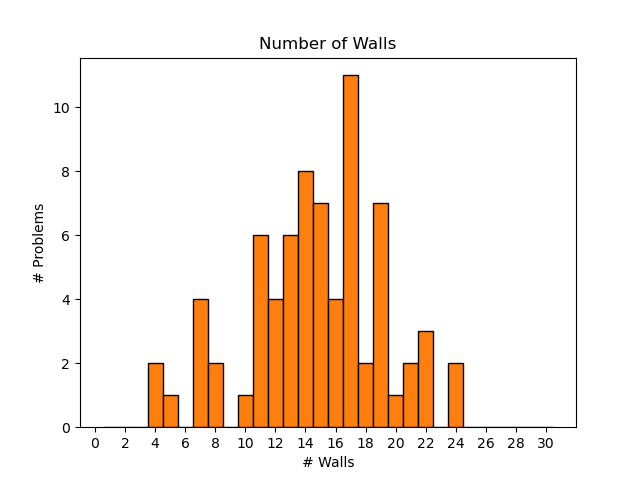
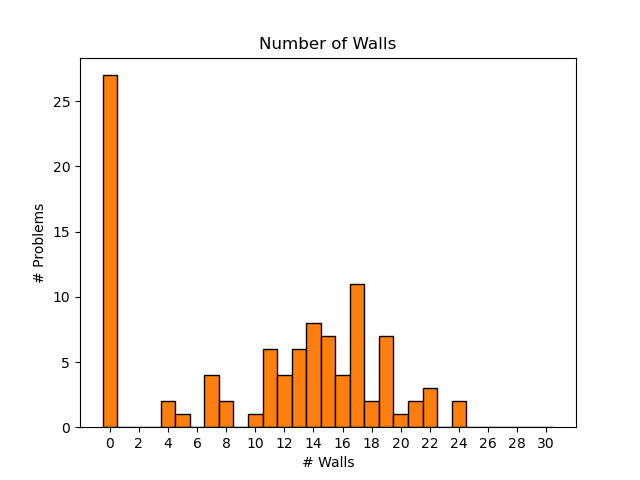
Implementing script for analyzing generated problems #11 - Added sk histograms for avg. distance

diff --git a/src/scripts/analyze_generated_problems.py b/src/scripts/analyze_generated_problems.py
@@ -33,6 +33,7 @@ from typing import Tuple, List
 import json
 import numpy as np
 import matplotlib.pyplot as plt
+import math
 from copy import deepcopy
 import os, sys
 
@@ -524,15 +525,81 @@ def create_histograms_logistics(args, pddl_problems, consistent_problems_info):
 
     print("> Created histograms for logistics")
 
+def _get_average_box_distance(num_obj: int, init_atoms: tuple, goal_atoms: tuple) -> float:
+    """
+    For sokoban, we measure the average box distance for the problem given by the input parameters.
+    Given a particular box, its distance is given by the manhattan distance between its initial and goal positions.
+
+    NOTE: we assume that the connectivity_map given by init_atoms corresponds to a square (and not rectangular) grid!
+    
+    In this context, the boxes are represented by the (at-box, (loc,)) atoms. The grid cells (objects)
+    are numbered from 0 to num_obj-1 in row-major order. The grid is square so that the grid side length is sqrt(num_obj).
+    
+    Since boxes are indistinguishable (i.e., we use (at-box) atoms and not specific objects), 
+    we match the boxes from the initial state to the goal state greedily:
+      1) Compute the Manhattan distance between every pair of init and goal at-box locations.
+      2) Select the pair with the smallest distance, add that distance to the total, and remove both locations.
+      3) Repeat until all boxes are matched.
+      
+    The function returns the average of these distances.
+    """
+    # Extract box locations from init_atoms and goal_atoms.
+    init_boxes = [atom[1][0] for atom in init_atoms if atom[0] == "at-box"]
+    goal_boxes = [atom[1][0] for atom in goal_atoms if atom[0] == "at-box"]
+    
+    # There should be the same number of boxes in init and goal.
+    n = len(init_boxes)
+    if n == 0:
+        return 0.0
+    
+    # Calculate grid side length.
+    grid_length = int(math.sqrt(num_obj))
+    
+    # Helper: get grid coordinates from cell index.
+    def cell_coords(index):
+        return (index // grid_length, index % grid_length)
+    
+    # Helper: compute Manhattan distance between two cell indices.
+    def manhattan_distance(idx1, idx2):
+        r1, c1 = cell_coords(idx1)
+        r2, c2 = cell_coords(idx2)
+        return abs(r1 - r2) + abs(c1 - c2)
+    
+    total_distance = 0
+    # Copy the lists for greedy matching.
+    unmatched_init = init_boxes.copy()
+    unmatched_goal = goal_boxes.copy()
+    
+    # Greedy matching: at each step, pick the pair with the smallest Manhattan distance.
+    while unmatched_init and unmatched_goal:
+        best_pair = None
+        min_dist = None
+        for init_loc in unmatched_init:
+            for goal_loc in unmatched_goal:
+                d = manhattan_distance(init_loc, goal_loc)
+                if min_dist is None or d < min_dist:
+                    min_dist = d
+                    best_pair = (init_loc, goal_loc)
+        # Add the best pair distance.
+        total_distance += min_dist
+        # Remove the matched locations.
+        unmatched_init.remove(best_pair[0])
+        unmatched_goal.remove(best_pair[1])
+    
+    # Return the average distance.
+    return total_distance / n
+
+
 def create_histograms_sokoban(args, pddl_problems, consistent_problems_info):
     """
-    For sokoban, we measure the number of boxes and walls.
+    For sokoban, we measure the number of boxes and walls, and the average box distance (see _get_average_box_distance for more info).
 
     NOTE: this info is the same in the init and goal state as it corresponds to objects (even though it is represented with predicates 'at-box' and 'at-wall').
           However, it is not the same in the GOAL (do not confuse with goal STATE) as 'at-wall' atoms do not appear in the goal
     """
     num_boxes = [x['num_atoms_init_state']['at-box'] for x in consistent_problems_info.values()]
     num_walls = [x['num_atoms_init_state']['at-wall'] for x in consistent_problems_info.values()]
+    avg_box_distance = [_get_average_box_distance(x._initial_state.num_objects, tuple(x._initial_state._atoms), x.goal) for x in pddl_problems.values()]
 
     color = 'tab:orange' if args.init_policy=='PPO' else 'tab:blue'
     model = 'NeSIG' if args.init_policy=='PPO' else 'adhoc'
@@ -554,7 +621,7 @@ def create_histograms_sokoban(args, pddl_problems, consistent_problems_info):
     # Histogram for num_walls
     min_val = 1
     max_val = 30
-    bins = np.arange(min_val - 0.5, max_val + 1.5, 1)
+    bins = np.arange(min_val - 1.5, max_val + 1.5, 1)
     
     plt.figure()
     plt.hist(num_walls, bins=bins, edgecolor='black', color=color)
@@ -563,6 +630,20 @@ def create_histograms_sokoban(args, pddl_problems, consistent_problems_info):
     plt.title("Number of Walls")
     plt.xticks(np.arange(0, max_val+1, 2))
     plt.savefig(f"histogram_sokoban_{model}_num_walls.png")
+    plt.close()
+
+    # Histogram for avg_box_distance
+    min_val = 1
+    max_val = 10
+    bins = np.arange(min_val - 1.5, max_val + 1.5, 1)
+    
+    plt.figure()
+    plt.hist(avg_box_distance, bins=bins, edgecolor='black', color=color)
+    plt.xlabel("Avg. Distance")
+    plt.ylabel("# Problems")
+    plt.title("Average Box Distance")
+    plt.xticks(np.arange(0, max_val+1, 1))
+    plt.savefig(f"histogram_sokoban_{model}_box_distance.png")
     plt.close()
 
     print("> Created histograms for sokoban")
